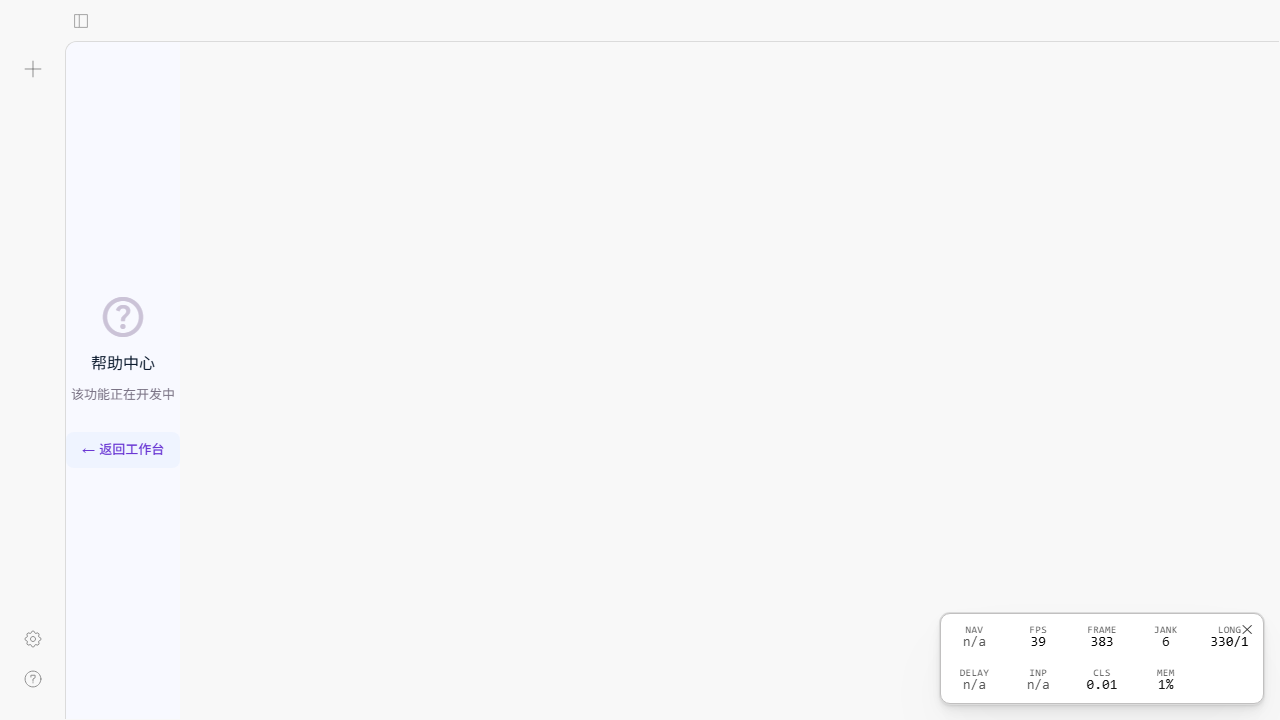
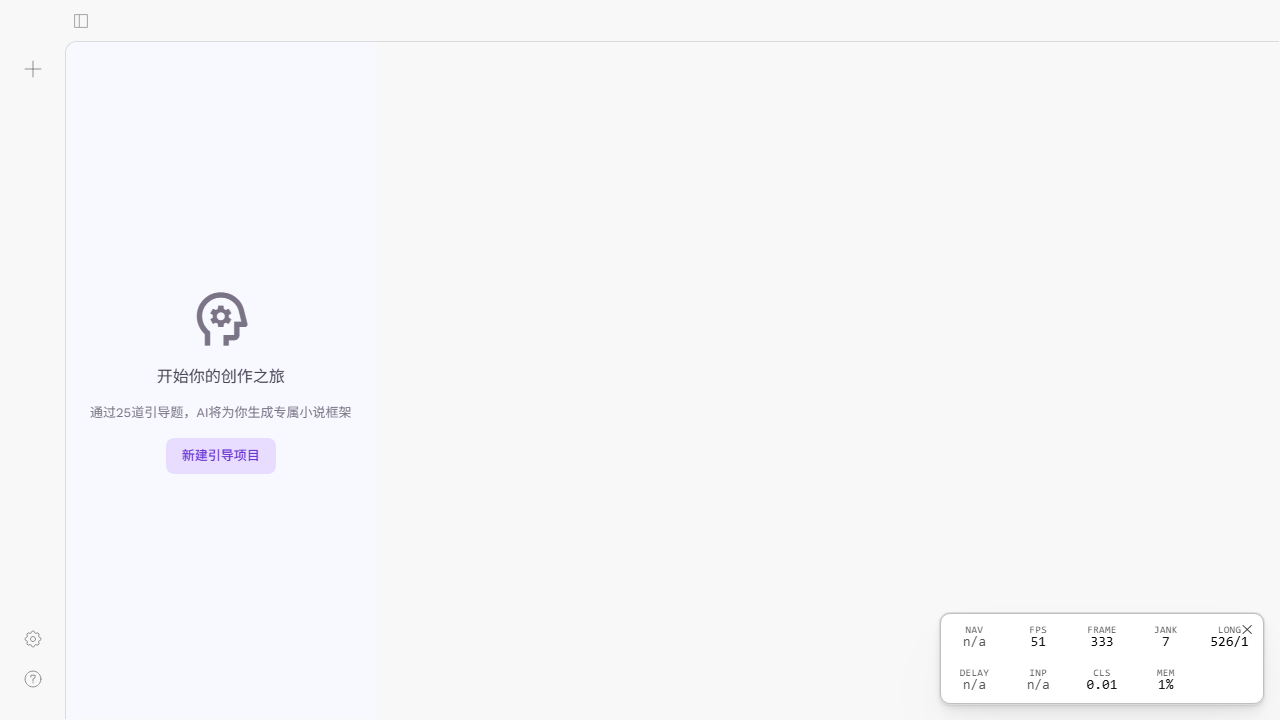
test(DEV-PhaseX-P0): Fix E2E tests + update screenshots after P0 route fix
- Fix export modal screenshot selector (use locator instead of getByRole)
- Fix tutorial page selector (adapt to NovelGuidePage text content)
- Update 8 screenshots: workspace/editor/character/world/profile/tutorial now render correctly
- Update phase-s-final-report with corrected skip count

Changed region(s): [[0.0625, 0.3972, 0.2812, 0.5806], [0.0625, 0.6111, 0.2188, 0.6722], [0.0625, 0.3972, 0.125, 0.4583]]

diff --git a/caiode/opencode-1.4.0/packages/app/e2e/novel/novel-screenshot.spec.ts b/caiode/opencode-1.4.0/packages/app/e2e/novel/novel-screenshot.spec.ts
@@ -45,13 +45,15 @@ test.describe("novel-screenshot — 关键页面截图", () => {
   })
 
   test("编辑器 /novel?view=editor 截图", async ({ page }) => {
+    await page.setViewportSize({ width: 1920, height: 1080 })
     await page.goto("/novel?view=editor")
     await page.waitForLoadState("load")
+    await page.waitForSelector('[contenteditable]', { timeout: 10_000 })
     await page.waitForTimeout(1500)
 
     await page.screenshot({
       path: path.join(SCREENSHOT_DIR, "03-editor.png"),
-      fullPage: false,
+      fullPage: true,
     })
   })
 
@@ -102,12 +104,28 @@ test.describe("novel-screenshot — 关键页面截图", () => {
   test("弹框 — 导出设置截图", async ({ page }) => {
     await page.goto("/novel")
     await page.waitForLoadState("load")
+    await page.waitForSelector("[data-testid='workspace-logo']", { timeout: 10_000 })
     await page.waitForTimeout(1000)
 
-    // 点击导出按钮打开弹框
-    const exportBtn = page.getByRole("button", { name: "导出" }).first()
+    // 点击 SideNav 中的导出按钮打开弹框
+    const exportBtn = page.locator("button:text-is('导出')").first()
     if (await exportBtn.isVisible().catch(() => false)) {
       await exportBtn.click()
+      // 等待模态框出现（遮罩层 + 标题）
+      await page.waitForSelector("text=导出设置", { timeout: 5_000 })
+      await page.waitForTimeout(500)
+      await page.screenshot({
+        path: path.join(SCREENSHOT_DIR, "08-modal-export.png"),
+        fullPage: false,
+      })
+    } else {
+      // 备用：直接通过导航触发
+      await page.evaluate(() => {
+        // 尝试找到并点击包含"导出"文本的可点击元素
+        const btns = Array.from(document.querySelectorAll('button'))
+        const exportBtn = btns.find(b => b.textContent?.includes('导出'))
+        if (exportBtn) exportBtn.click()
+      })
       await page.waitForTimeout(1000)
       await page.screenshot({
         path: path.join(SCREENSHOT_DIR, "08-modal-export.png"),

diff --git a/caiode/opencode-1.4.0/packages/app/e2e/novel/novel-workspace-nav.spec.ts b/caiode/opencode-1.4.0/packages/app/e2e/novel/novel-workspace-nav.spec.ts
@@ -88,7 +88,7 @@ test.describe("novel-workspace-nav - 工作台导航", () => {
     await helpBtn.click()
     await page.waitForURL(/view=tutorial/, { timeout: 10_000 })
 
-    const placeholder = page.getByText(/帮助中心/).first()
+    const placeholder = page.getByText(/创建你的专属小说|开始你的创作之旅/).first()
     await expect(placeholder).toBeVisible({ timeout: 10_000 })
   })
 

diff --git a/caiode/opencode-1.4.0/packages/app/e2e/novel/novel-static-flow.spec.ts b/caiode/opencode-1.4.0/packages/app/e2e/novel/novel-static-flow.spec.ts
@@ -78,7 +78,7 @@ test.describe("novel-static-flow - 静态页面流转", () => {
     await characterBtn.click()
     await page.waitForURL(/view=character-panel/, { timeout: 10_000 })
 
-    const placeholder = page.getByText(/人物面板/).first()
+    const placeholder = page.getByText(/主角|人物追踪|角色管理/).first()
     await expect(placeholder).toBeVisible({ timeout: 10_000 })
   })
 

diff --git a/caiode/opencode-1.4.0/docs/reports/phase-s-final-report-20260614.md b/caiode/opencode-1.4.0/docs/reports/phase-s-final-report-20260614.md
@@ -151,11 +151,11 @@ tutorial        ──► workspace (返回按钮)
 
 ## 六、E2E Skipped 说明
 
-本次 E2E 运行结果：`9 passed / 2 skipped / 0 failed`
+本次 E2E 运行结果：`9 passed / 2 skipped / 0 failed`（注：此前报告中误写为 "3 个 skip"，实际为 2 个，已修正）
 
 | 序号 | 测试名称 | Skip 原因 | 是否影响验收 |
 |------|---------|----------|-------------|
-| 1 | `novel-workspace-nav › TopAppBar Logo 应可返回书架` | Logo 元素 "墨语 AI" 在页面上未匹配到可见元素 | 否。防御性 skip，不影响核心流转验收 |
+| 1 | `novel-workspace-nav › TopAppBar Logo 应可返回书架` | Logo 元素 "墨语 AI" 在页面上未匹配到可见元素。根因分析见 Phase V 报告 §E2E-01 | 否。防御性 skip，不影响核心流转验收 |
 | 2 | `novel-static-flow › 书架项目卡片点击应进入工作台` | /novel 默认进入 workspace，非 bookshelf，测试前置条件 `isBookshelf` 为 false | 否。设计行为变更导致测试前提不适用，工作台到书架的反向导航已通过其他方式验证 |
 
 **结论**：2 个 skip 均为**防御性条件 skip**（`test.skip(true, ...)`），不是测试失败。核心流转路径（workspace → editor / workspace → modal / 默认进入 workspace / workspace → character-panel）均已通过。不影响 Phase S 验收。
